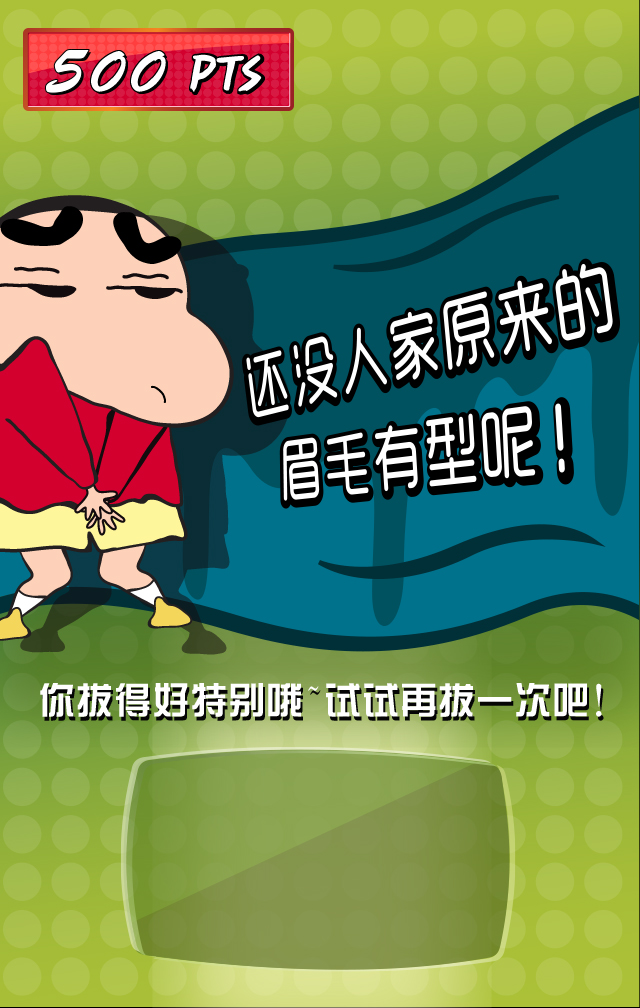
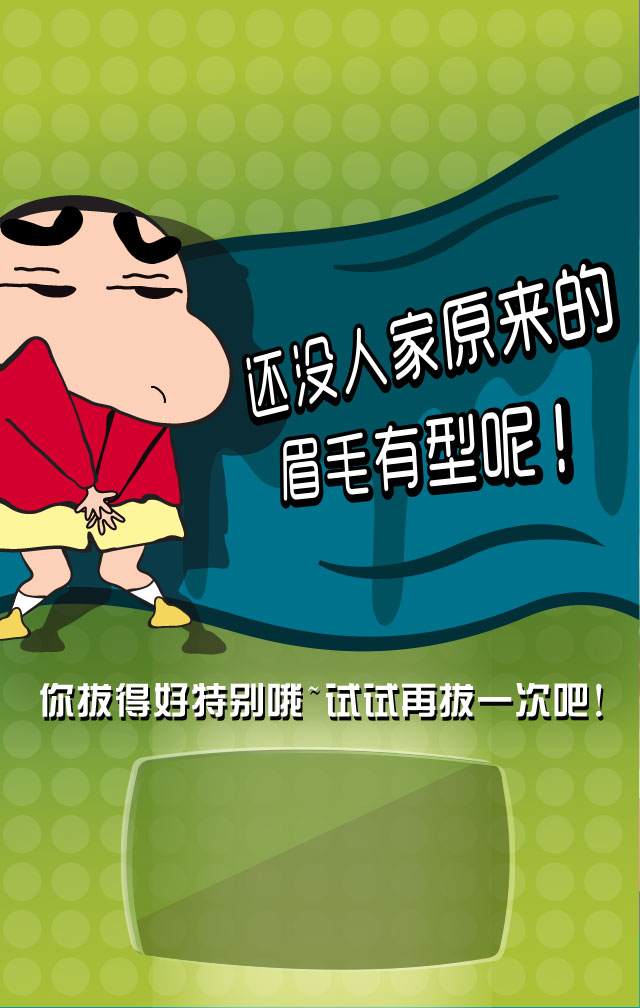
demo优化
比较完善的蜡笔小新的game1

Changed region(s): [[0.0312, 0.0308, 0.4688, 0.123], [0.9688, 0.9841, 1.0, 1.0]]

diff --git a/css/default/labixiaoxin.css b/css/default/labixiaoxin.css
@@ -37,6 +37,7 @@ overflow-x: hidden;
 
 .role-bg .game-tv{background: url(../../image/labixiaoxin/tv.png);position: absolute;z-index: 24;display: none;}
 .role-bg .game-tv img{position: absolute;left:auto;top:auto;}
+.role-bg .five_points{background: url(../../image/labixiaoxin/500.png);position: absolute;z-index: 1001;}
 
 #eyebrow{position: absolute;z-index: 99;display: none;}
 #eyebrowj{position: absolute;z-index: 99;display: none;}
@@ -81,6 +82,7 @@ overflow-x: hidden;
 	.role-bg .game-tv{background-size: 207px;width: 207px;height:127px;top:90px;right: 10px;}
 	.role-bg .game-tv img{width: 80px;height: 34px;right: 17px;bottom: 20px;}
 	#three{top:-145px;}
+	.role-bg .five_points{background-size: 135px;width: 135px;height: 41px;top:20px;left: 20px;}
 }
 
 @media screen and (min-width:360px){
@@ -104,6 +106,7 @@ overflow-x: hidden;
 	.role-bg .game-tv{background-size: 232px;width: 232px;height:142px;top:123px;right: 11px;}
 	.role-bg .game-tv img{width: 90px;height: 38px;right: 19px;bottom: 22px;}
 	#three{top:-163px;}
+	.role-bg .five_points{background-size: 151px;width: 151px;height: 46px;top:22px;left: 22px;}
 }
 
 @media screen and (min-width:480px){
@@ -127,6 +130,7 @@ overflow-x: hidden;
 	.role-bg .game-tv{background-size: 310px;width: 310px;height:190px;top:165px;right: 10px;}
 	.role-bg .game-tv img{width: 120px;height: 51px;}
 	#three{top:-217px;}
+	.role-bg .five_points{background-size: 202px;width: 202px;height: 62px;top:30px;left: 30px;}
 }
 @media screen and (min-width:640px){
 	.role-bg .biling{background-size: 151px;width: 151px;height: 82px;top:340px;left:400px;}
@@ -149,6 +153,7 @@ overflow-x: hidden;
 	.role-bg .game-tv{background-size: 414px;width: 414px;height:254px;top:220px;right: 10px;}
 	.role-bg .game-tv img{width: 160px;height: 69px;}
 	#three{top:-290px;}
+	.role-bg .five_points{background-size: 271px;width: 271px;height: 83px;top:40px;left: 40px;}
 }
 
 

diff --git a/labixiaoxin/pagesuccess.html b/labixiaoxin/pagesuccess.html
@@ -19,13 +19,11 @@
 
 
 <!-- page4 -->
-<div data-role="page" id="success" data-dom-cache＝"false">
 	<div class="role-bg">		
 		<img src="../image/labixiaoxin/success.jpg" />
 		<div id="successnext" class="successnext"></div>
 		<div id="successretry" class="successretry"></div>
 	</div>
-</div>
 <!-- /page4 -->
 
 
@@ -42,6 +40,16 @@ $(function() {
   $("#successretry").click(function(event) {
     window.location.href="page3.html";
   });
+
+  //背景图片切换
+  var changeBg = setInterval(function(argument) {
+      if ($(".role-bg").find('img').attr("src").indexOf("success2") != -1) {
+        $(".role-bg").find('img').attr("src", "../image/labixiaoxin/success.jpg");
+      } else {
+        $(".role-bg").find('img').attr("src", "../image/labixiaoxin/success2.jpg");
+      }
+    }, 300);
+
 
 });
 </script>

diff --git a/labixiaoxin/pageerror.html b/labixiaoxin/pageerror.html
@@ -18,13 +18,12 @@
 <body>
 
 <!-- page5 -->
-<div data-role="page" id="error" data-dom-cache＝"false">
 	<div class="role-bg">		
 		<img src="../image/labixiaoxin/error.jpg" />
 		<img id="three" src="../image/labixiaoxin/lineThree.png" />
-		<a href="page3.html "/><div id="retry" class="retry"></div></a>
+		<div id="retry" class="retry"></div>
+		<div class="five_points"></div>
 	</div>
-</div>
 <!-- /page5 -->
 
 <script type="text/javascript">
@@ -32,9 +31,14 @@
 		$("#three").animate({
 			"top": 0
 			},
-			1000, function() {
-			
+			1000, function() {			
 		});
+
+		setTimeout(function(){
+			$("#retry").click(function(event) {
+				window.location.href = "page3.html";
+			});
+		},2000);
 	})
 </script>
 

diff --git a/labixiaoxin/page3.html b/labixiaoxin/page3.html
@@ -122,15 +122,15 @@
       //开始动画,ready和go的切换
       $(".ready").animate({
         "opacity": 1
-      },1000,function(){
+      },500,function(){
         $(".ready").animate({
           "opacity": 0
         },
-        1000, function() {
+        500, function() {
           $(".go").animate({
               "opacity": 1
             },
-            1000, function() {
+            500, function() {
               //小新和背景模糊放大
               $("#page3Bg").addClass('page3StartAnimate');
               $("#xiaoxin").addClass('page3StartAnimate');
